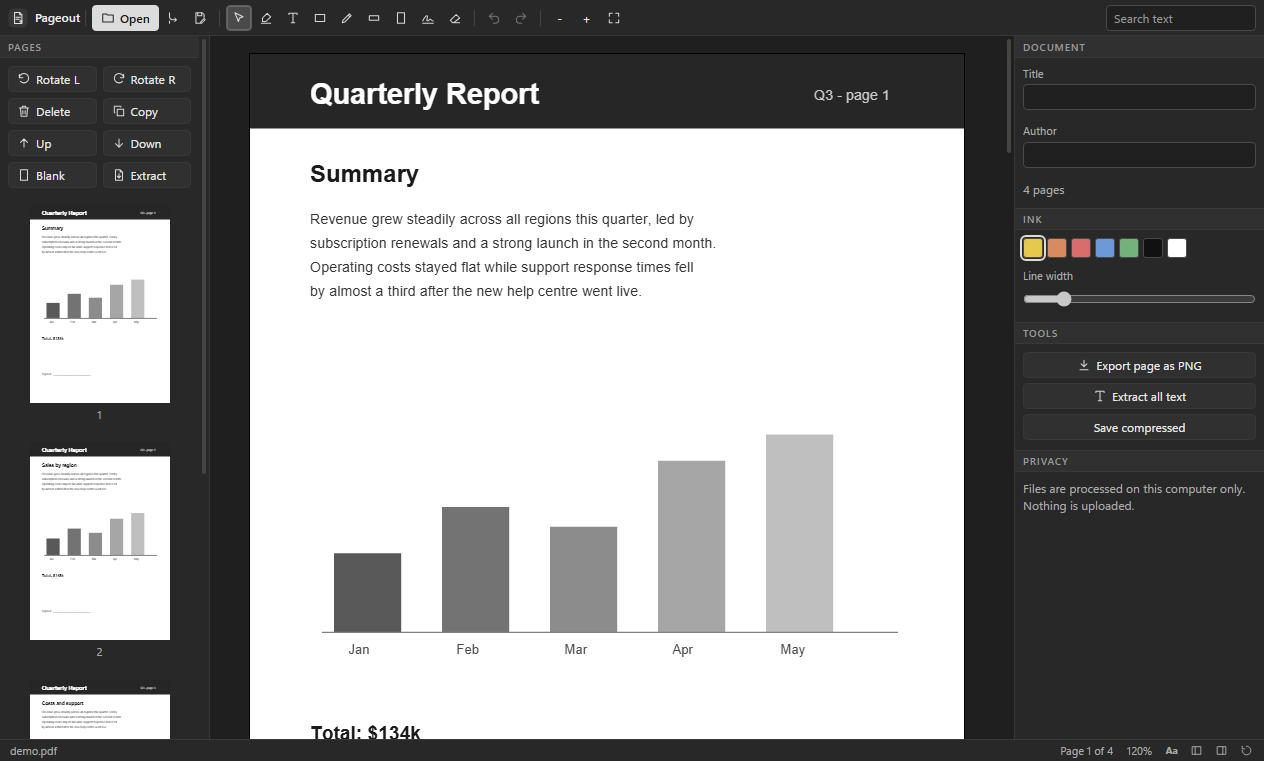
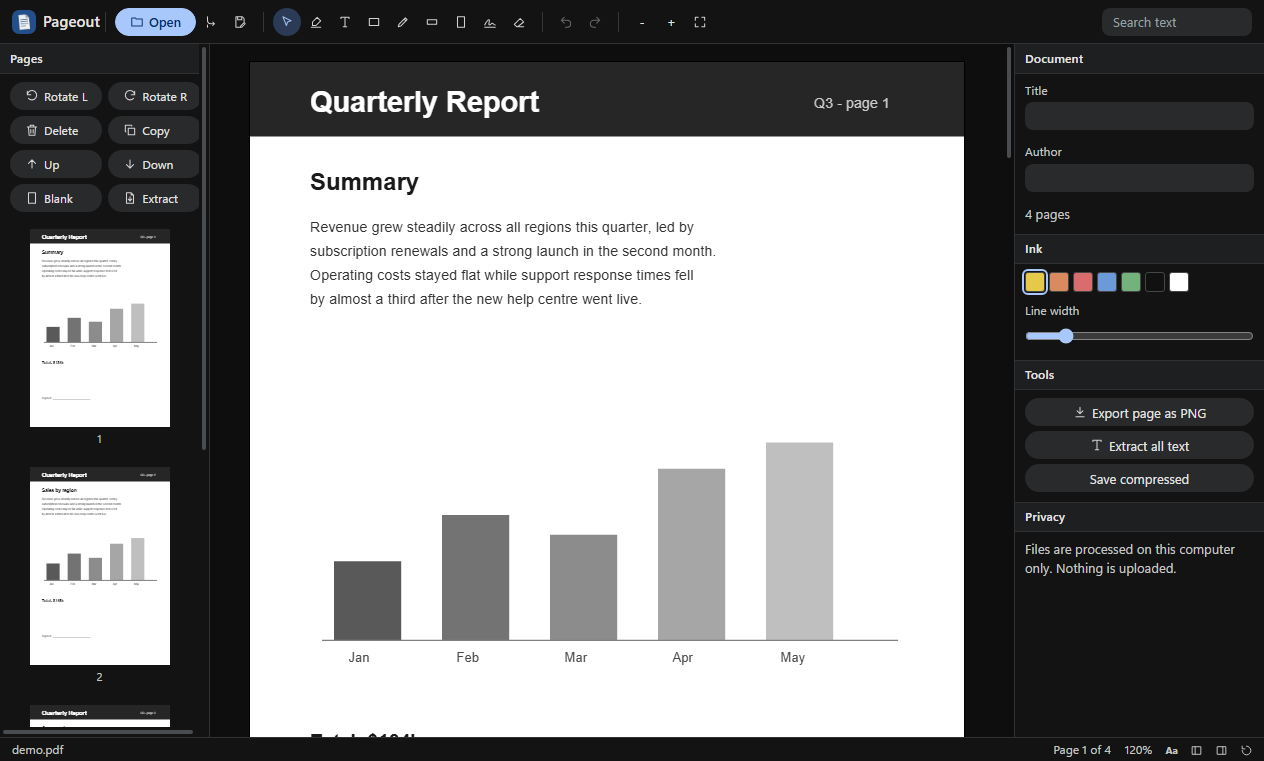
fix: Pageout 1.0.14
New Google-style look: charcoal theme, pill buttons, blue accent, colour app logo. Refreshed README and screenshots.

diff --git a/renderer/lookout.css b/renderer/lookout.css
@@ -1,68 +1,69 @@
-/* Lookout gray UI kit v3: compact pro workspace, flat, no hue. Shared by every Lookout app. */
+/* Lookout UI kit v4: Google-style dark (AI Studio / Colab / Gemini): soft surfaces, pill buttons, blue accent. Shared by every Lookout app. */
 :root{
-  --bg:#202020; --bg-2:#282828; --bg-3:#303030; --bg-4:#3a3a3a; --stage:#181818;
-  --line:#383838; --line-2:#4a4a4a; --line-3:#5c5c5c;
-  --text:#e8e8e8; --text-2:#ababab; --text-3:#9a9a9a;
-  --accent:#dcdcdc; --accent-ink:#1b1b1b; --focus:#a0a0a0;
-  --radius:4px; --h:26px; --pad:8px;
-  --font:"Segoe UI Variable Text","Segoe UI",system-ui,-apple-system,sans-serif; --mono:Consolas,"Cascadia Mono",monospace;
+  --bg:#131314; --bg-2:#1e1f20; --bg-3:#282a2c; --bg-4:#333537; --stage:#0e0e0f;
+  --line:#2f3133; --line-2:#444746; --line-3:#5f6368;
+  --text:#e3e3e3; --text-2:#c4c7c5; --text-3:#9aa0a6;
+  --accent:#a8c7fa; --accent-ink:#062e6f; --accent-2:#0b57d0; --accent-soft:#2b3a55; --focus:#a8c7fa;
+  --radius:8px; --h:28px; --pad:10px;
+  --font:"Google Sans Text","Google Sans",Roboto,"Segoe UI Variable Text","Segoe UI",system-ui,-apple-system,sans-serif; --mono:Consolas,"Cascadia Mono",monospace;
 }
 *{box-sizing:border-box;margin:0;padding:0}
-html,body{height:100%;background:var(--bg);color:var(--text);font:12px/1.4 var(--font);overflow:hidden;user-select:none;-webkit-font-smoothing:antialiased}
+html,body{height:100%;background:var(--bg);color:var(--text);font:13px/1.45 var(--font);overflow:hidden;user-select:none;-webkit-font-smoothing:antialiased}
 button,input,select,textarea{font:inherit;color:inherit}
 .app{display:grid;grid-template-rows:auto 1fr auto;height:100vh}
 
 /* ---------- toolbar ---------- */
-.toolbar{display:flex;align-items:center;gap:1px;padding:4px 8px;min-height:36px;background:var(--bg-2);border-bottom:1px solid var(--line);flex-wrap:nowrap;overflow-x:auto;overflow-y:hidden;scrollbar-width:none}
+.toolbar{display:flex;align-items:center;gap:1px;padding:6px 12px;min-height:44px;background:var(--bg);border-bottom:1px solid var(--line);flex-wrap:nowrap;overflow-x:auto;overflow-y:hidden;scrollbar-width:none}
 .toolbar::-webkit-scrollbar{height:0}
 .toolbar>*{flex-shrink:0}
-.toolbar .sep{width:1px;height:16px;align-self:center;background:var(--line-2);margin:0 5px;opacity:.8}
+.toolbar .sep{width:1px;height:20px;align-self:center;background:var(--line-2);margin:0 8px;opacity:.7}
 .toolbar .grow{flex:1 1 auto;min-width:8px}
 .toolbar input[type=text],.toolbar input[type=search]{width:150px}
-.brand{display:flex;align-items:center;gap:7px;padding-right:2px;margin-right:2px;font-weight:600;font-size:12px;color:var(--text)}
-.brand img{width:20px;height:20px;border-radius:5px;display:block}
+.brand{display:flex;align-items:center;gap:7px;padding-right:2px;margin-right:2px;font-weight:500;font-size:15px;letter-spacing:.1px;color:var(--text)}
+.brand img{width:24px;height:24px;border-radius:7px;display:block}
 .brand+.sep{margin-left:0}
 
 /* ---------- buttons ---------- */
-.btn{display:inline-flex;align-items:center;justify-content:center;gap:5px;height:var(--h);padding:0 8px;background:var(--bg-3);border:1px solid var(--line);border-radius:var(--radius);cursor:pointer;white-space:nowrap;line-height:1;transition:background .08s,border-color .08s}
-.btn:hover{background:var(--bg-4);border-color:var(--line-2)}
-.btn:active{background:#262626}
+.btn{display:inline-flex;align-items:center;justify-content:center;gap:5px;height:var(--h);padding:0 14px;background:var(--bg-3);border:1px solid transparent;border-radius:999px;cursor:pointer;white-space:nowrap;line-height:1;transition:background .08s,border-color .08s}
+.btn:hover{background:var(--bg-4)}
+.btn:active{background:#3c3f41}
 .btn:focus-visible,input:focus-visible,select:focus-visible,textarea:focus-visible,[tabindex]:focus-visible{outline:2px solid var(--focus);outline-offset:1px}
-.btn.primary{background:var(--accent);color:var(--accent-ink);border-color:var(--accent);font-weight:600}
-.btn.primary:hover{background:#ececec;border-color:#ececec}
-.btn.on{background:#4a4a4a;border-color:var(--line-3);box-shadow:inset 0 0 0 1px #6a6a6a}
+.btn.primary{background:var(--accent);color:var(--accent-ink);border-color:var(--accent);font-weight:500}
+.btn.primary:hover{background:#c2d7fb;border-color:#c2d7fb;box-shadow:0 1px 3px rgba(0,0,0,.4)}
+.btn.on{background:var(--accent-soft);color:var(--accent);border-color:transparent}
 .btn[disabled]{opacity:.45;pointer-events:none}
-.btn.icon{padding:0;width:var(--h);min-width:var(--h)}
+.btn.icon{padding:0;width:var(--h);min-width:var(--h);border-radius:50%}
 .btn .ic{width:14px;height:14px;flex-shrink:0;display:block;opacity:.92}
 .toolbar .btn:not(.primary):not(.on){background:transparent;border-color:transparent}
-.toolbar .btn:not(.primary):not(.on):hover{background:var(--bg-4);border-color:var(--line-2)}
+.toolbar .btn:not(.primary):not(.on):hover{background:var(--bg-3);border-color:transparent}
 
 /* icon-only toolbar: names live in the tooltip (Aa in the status bar brings the labels back) */
-.toolbar:not(.lbl) .btn:not(.primary):has(> svg.ic),.toolbar.c3 .btn:has(> svg.ic){font-size:0;gap:0;width:var(--h);padding:0}
+.toolbar:not(.lbl) .btn:not(.primary):has(> svg.ic),.toolbar.c3 .btn:has(> svg.ic){font-size:0;gap:0;width:var(--h);padding:0;border-radius:50%}
 .toolbar.c2 .brand span{display:none}
 .toolbar.c2 input[type=text],.toolbar.c2 input[type=search]{width:110px}
 .toolbar.lbl.c1 .btn.minor:not(.primary):has(> svg.ic),.toolbar.lbl.c2 .btn:not(.primary):has(> svg.ic){font-size:0;gap:0;width:var(--h);padding:0}
 
 /* ---------- fields ---------- */
-input[type=text],input[type=number],input[type=search],input[type=date],select,textarea{background:var(--bg);border:1px solid var(--line-2);border-radius:var(--radius);padding:0 7px;height:var(--h);user-select:text;min-width:0;font-size:12px}
+input[type=text],input[type=number],input[type=search],input[type=date],select,textarea{background:var(--bg-3);border:1px solid transparent;border-radius:var(--radius);padding:0 10px;height:var(--h);user-select:text;min-width:0;font-size:13px}
 input[type=number],.frow>input,.field>input{font-variant-numeric:tabular-nums}
 textarea{height:auto;padding:5px 7px;resize:vertical;line-height:1.4}
 select{padding-right:4px;cursor:pointer}
-input:hover,select:hover,textarea:hover{border-color:var(--line-3)}
-input[type=range]{accent-color:#c8c8c8;height:var(--h)}
-input[type=checkbox]{accent-color:#c8c8c8;width:14px;height:14px;cursor:pointer}
-input[type=color]{border:1px solid var(--line-2);background:var(--bg);width:26px;height:var(--h);padding:2px;border-radius:var(--radius)}
-label.field{display:flex;flex-direction:column;gap:3px;color:var(--text-2);font-size:11px}
-label.field>input,label.field>select,label.field>textarea{width:100%;color:var(--text);font-size:12px}
+input:hover,select:hover,textarea:hover{background:var(--bg-4)}
+input[type=text]:focus,input[type=number]:focus,input[type=search]:focus,input[type=date]:focus,select:focus,textarea:focus{outline:none;border-color:var(--accent);background:var(--bg-2)}
+input[type=range]{accent-color:#a8c7fa;height:var(--h)}
+input[type=checkbox]{accent-color:#a8c7fa;width:14px;height:14px;cursor:pointer}
+input[type=color]{border:1px solid var(--line-2);background:var(--bg-3);width:26px;height:var(--h);padding:2px;border-radius:var(--radius)}
+label.field{display:flex;flex-direction:column;gap:3px;color:var(--text-2);font-size:12px}
+label.field>input,label.field>select,label.field>textarea{width:100%;color:var(--text);font-size:13px}
 
 /* ---------- layout ---------- */
 .main{display:flex;min-height:0;min-width:0}
-.sidebar{width:210px;background:var(--bg-2);border-right:1px solid var(--line);overflow:auto;padding:var(--pad);flex-shrink:0;min-width:0}
+.sidebar{width:210px;background:var(--bg);border-right:1px solid var(--line);overflow:auto;padding:var(--pad);flex-shrink:0;min-width:0}
 .sidebar.right{border-right:0;border-left:1px solid var(--line);width:250px}
 .sidebar.collapsed{display:none!important}
-.sidebar h3,.panel-title{font-size:10px;text-transform:uppercase;letter-spacing:.09em;color:var(--text-3);font-weight:600}
+.sidebar h3,.panel-title{font-size:12px;letter-spacing:.2px;color:var(--text-2);font-weight:500}
 .sidebar h3{margin:12px 0 6px}
-.sidebar>h3{display:flex;align-items:center;gap:6px;height:22px;margin:10px calc(var(--pad) * -1) 8px;padding:0 var(--pad);background:var(--bg-3);border-top:1px solid var(--line);border-bottom:1px solid var(--line)}
+.sidebar>h3{display:flex;align-items:center;gap:6px;height:30px;margin:10px calc(var(--pad) * -1) 8px;padding:0 var(--pad);background:var(--bg-2);border-top:1px solid var(--line);border-bottom:1px solid var(--line);color:var(--text)}
 .sidebar>h3:first-child{margin-top:calc(var(--pad) * -1);border-top:0}
 .panel-title{margin:12px 0 6px}
 .sidebar input[type=text],.sidebar input[type=search],.sidebar select,.sidebar textarea{width:100%}
@@ -73,20 +74,20 @@ label.field>input,label.field>select,label.field>textarea{width:100%;color:var(-
 .sidebar .btn{width:auto}
 .sidebar>.btn{width:100%;margin-bottom:5px}
 .stage{flex:1;min-width:0;min-height:0;position:relative;background:var(--stage);overflow:auto}
-.status{display:flex;gap:14px;align-items:center;height:22px;padding:0 10px;background:var(--bg-2);border-top:1px solid var(--line);color:var(--text-2);font-size:11px;white-space:nowrap;overflow:hidden}
+.status{display:flex;gap:14px;align-items:center;height:24px;padding:0 12px;background:var(--bg);border-top:1px solid var(--line);color:var(--text-2);font-size:12px;white-space:nowrap;overflow:hidden}
 .status .grow{flex:1}
 body.hasdock .status{padding-right:112px}
-.wbs{position:fixed;right:6px;bottom:2px;height:18px;display:flex;gap:2px;z-index:8;background:var(--bg-2);padding-left:6px}
+.wbs{position:fixed;right:6px;bottom:2px;height:18px;display:flex;gap:2px;z-index:8;background:var(--bg);padding-left:6px}
 .wbs[hidden]{display:none}
-.wbs .wb{height:18px;min-width:22px;padding:0 4px;display:inline-flex;align-items:center;justify-content:center;font-size:10px;font-weight:700;line-height:1;background:transparent;border:1px solid transparent;border-radius:3px;color:var(--text-2);cursor:pointer}
+.wbs .wb{height:18px;min-width:22px;padding:0 4px;display:inline-flex;align-items:center;justify-content:center;font-size:10px;font-weight:700;line-height:1;background:transparent;border:1px solid transparent;border-radius:6px;color:var(--text-2);cursor:pointer}
 .wbs .wb[hidden]{display:none}
 .wbs .wb svg{width:13px;height:13px;display:block}
-.wbs .wb:hover{background:var(--bg-4);border-color:var(--line-2);color:var(--text)}
-.wbs .wb.on{background:var(--bg-4);border-color:var(--line-3);color:var(--text)}
+.wbs .wb:hover{background:var(--bg-3);color:var(--text)}
+.wbs .wb.on{background:var(--accent-soft);color:var(--accent)}
 .list{display:flex;flex-direction:column;gap:1px}
-.list .item{padding:3px 6px;border-radius:var(--radius);cursor:pointer;border:1px solid transparent;display:flex;gap:6px;align-items:center;min-height:26px}
+.list .item{padding:3px 10px;border-radius:999px;cursor:pointer;border:1px solid transparent;display:flex;gap:6px;align-items:center;min-height:26px}
 .list .item:hover{background:var(--bg-3)}
-.list .item.sel{background:var(--bg-4);border-color:var(--line-2)}
+.list .item.sel{background:var(--accent-soft);color:var(--accent);border-color:transparent}
 .row{display:flex;gap:5px;align-items:center}
 .grow{flex:1 1 auto;min-width:0}
 .brow{display:grid;grid-template-columns:1fr 1fr;gap:5px;margin-bottom:5px}
@@ -99,17 +100,17 @@ body.hasdock .status{padding-right:112px}
 .sidebar .swatches{margin-bottom:8px}
 .list .item .btn{height:22px!important;width:24px!important;padding:0!important;font-size:0!important;gap:0;background:transparent;border-color:transparent;opacity:.55}
 .list .item:hover .btn,.list .item.sel .btn{opacity:1}
-.list .item .btn:hover{background:var(--bg-4);border-color:var(--line-2)}
+.list .item .btn:hover{background:var(--bg-4)}
 .col{display:flex;flex-direction:column;gap:5px}
 .muted{color:var(--text-2)}
 .empty{position:absolute;inset:0;display:flex;flex-direction:column;align-items:center;justify-content:center;gap:10px;color:var(--text-3);text-align:center;padding:24px}
-.empty .big{font-size:16px;color:var(--text-2);font-weight:600}
+.empty .big{font-size:20px;color:var(--text);font-weight:400}
 
 /* panel grip: drag to resize, double-click to collapse or restore */
 .grip{position:relative;flex:0 0 5px;width:5px;margin:0 -3px 0 -2px;z-index:6;cursor:col-resize;touch-action:none}
 .grip::after{content:"";position:absolute;top:0;bottom:0;left:2px;width:1px;background:transparent;transition:background .1s}
-.grip:hover::after,.grip.drag::after{background:var(--line-3);width:2px;left:1px}
-.grip.collapsed{flex:0 0 8px;width:8px;margin:0;background:var(--bg-2);border-left:1px solid var(--line);border-right:1px solid var(--line)}
+.grip:hover::after,.grip.drag::after{background:var(--accent);width:2px;left:1px}
+.grip.collapsed{flex:0 0 8px;width:8px;margin:0;background:var(--bg);border-left:1px solid var(--line);border-right:1px solid var(--line)}
 .grip.collapsed::after{left:3px;top:calc(50% - 14px);bottom:auto;height:28px;width:2px;background:var(--line-3);border-radius:2px}
 .grip.collapsed:hover{background:var(--bg-3)}
 body.gripping{cursor:col-resize}
@@ -117,30 +118,30 @@ body.gripping *{cursor:col-resize!important;user-select:none!important}
 
 /* ---------- overlays ---------- */
 .modal-back{position:fixed;inset:0;background:rgba(0,0,0,.6);display:flex;align-items:center;justify-content:center;z-index:50}
-.modal{background:var(--bg-2);border:1px solid var(--line-2);border-radius:8px;min-width:340px;max-width:80vw;max-height:85vh;overflow:auto;padding:16px;display:flex;flex-direction:column;gap:12px;box-shadow:0 18px 50px rgba(0,0,0,.5)}
-.modal h2{font-size:14px;font-weight:600}
-.toast{position:fixed;left:50%;bottom:34px;transform:translateX(-50%);background:var(--bg-4);border:1px solid var(--line-3);padding:7px 14px;border-radius:6px;z-index:60;box-shadow:0 8px 24px rgba(0,0,0,.4)}
-.progress{height:5px;background:var(--bg);border:1px solid var(--line);border-radius:4px;overflow:hidden}
+.modal{background:var(--bg-2);border:0;border-radius:24px;min-width:360px;max-width:80vw;max-height:85vh;overflow:auto;padding:24px;display:flex;flex-direction:column;gap:14px;box-shadow:0 8px 32px rgba(0,0,0,.6)}
+.modal h2{font-size:20px;font-weight:400}
+.toast{position:fixed;left:50%;bottom:34px;transform:translateX(-50%);background:#e3e3e3;color:#1f1f1f;border:0;padding:10px 18px;border-radius:8px;z-index:60;box-shadow:0 8px 24px rgba(0,0,0,.4)}
+.progress{height:6px;background:var(--bg-3);border:0;border-radius:999px;overflow:hidden}
 .progress>i,.progress>div{display:block;height:100%;background:var(--accent);width:0}
 
 /* ---------- tables ---------- */
 table.grid{border-collapse:separate;border-spacing:0;width:100%}
 table.grid th,table.grid td{border-bottom:1px solid var(--line);padding:0 10px;height:30px;text-align:left;vertical-align:middle}
-table.grid th{background:var(--bg-2);color:var(--text-2);font-weight:600;font-size:11px;position:sticky;top:0;z-index:1;height:26px}
-table.grid tbody tr:hover td{background:#242424}
-table.grid tr.sel td{background:#323232}
+table.grid th{background:var(--bg-2);color:var(--text-2);font-weight:500;font-size:12px;position:sticky;top:0;z-index:1;height:26px}
+table.grid tbody tr:hover td{background:var(--bg-2)}
+table.grid tr.sel td{background:var(--accent-soft)}
 table.grid tbody tr{cursor:default}
 table.grid td .btn{height:22px;margin-left:6px;vertical-align:middle}
 table.grid td{white-space:nowrap}
 
 /* ---------- misc ---------- */
 ::-webkit-scrollbar{width:10px;height:10px}
-::-webkit-scrollbar-thumb{background:#454545;border:3px solid transparent;background-clip:padding-box;border-radius:8px}
-::-webkit-scrollbar-thumb:hover{background:#5a5a5a;background-clip:padding-box;border:3px solid transparent}
+::-webkit-scrollbar-thumb{background:#4a4d50;border:3px solid transparent;background-clip:padding-box;border-radius:8px}
+::-webkit-scrollbar-thumb:hover{background:#6b6f73;background-clip:padding-box;border:3px solid transparent}
 ::-webkit-scrollbar-track,::-webkit-scrollbar-corner{background:transparent}
 .swatches{display:flex;flex-wrap:wrap;gap:5px}
-.swatches button{width:20px;height:20px;border:1px solid var(--line-3);border-radius:4px;cursor:pointer;padding:0}
+.swatches button{width:22px;height:22px;border:1px solid var(--line-3);border-radius:50%;cursor:pointer;padding:0}
 .swatches button.on{outline:2px solid var(--accent);outline-offset:2px}
-kbd{font-family:var(--mono);font-size:10px;background:var(--bg-3);border:1px solid var(--line-2);border-bottom-width:2px;border-radius:3px;padding:0 4px}
+kbd{font-family:var(--mono);font-size:10px;background:var(--bg-3);border:1px solid var(--line-2);border-bottom-width:2px;border-radius:4px;padding:0 5px}
 
 input::placeholder,textarea::placeholder{color:var(--text-3);opacity:1}

diff --git a/renderer/app.css b/renderer/app.css
@@ -1,4 +1,4 @@
-.stage{display:flex;flex-direction:column;align-items:center;gap:14px;padding:18px;background:#1f1f1f}
+.stage{display:flex;flex-direction:column;align-items:center;gap:14px;padding:18px;background:var(--stage)}
 .page{position:relative;background:#fff;box-shadow:0 0 0 1px #000;flex-shrink:0}
 .page canvas{display:block}
 .page svg.ov{position:absolute;inset:0;width:100%;height:100%;overflow:visible}
@@ -12,7 +12,7 @@
 .stage.tool-erase{cursor:not-allowed}
 .thumb{display:flex;flex-direction:column;align-items:center;gap:4px;padding:6px;border:1px solid transparent;border-radius:4px;cursor:pointer;margin-bottom:6px}
 .thumb:hover{background:var(--bg-3)}
-.thumb.sel{background:#444;border-color:var(--line-2)}
+.thumb.sel{background:var(--accent-soft);border-color:var(--accent)}
 .thumb canvas{background:#fff;max-width:100%;display:block}
 .thumb span{font-size:11px;color:var(--text-2)}
 .ptools{display:grid;grid-template-columns:1fr 1fr;gap:6px;margin-bottom:10px}

diff --git a/README.md b/README.md
@@ -1,8 +1,10 @@
-<p align="center"><img src="screenshots/banner.png" alt="Pageout" width="100%"></p>
+<p align="center"><img src="screenshots/logo.png" alt="Pageout" width="128"></p>
 
-<p align="center"><b>Read, annotate and sign PDFs</b><br>Version 1.0.3 for Windows · Free · Offline · No account</p>
+<h1 align="center">Pageout</h1>
 
-<p align="center"><a href="https://github.com/plawanpawin-byte/pageout/releases/latest"><b>Download Pageout</b></a> · <a href="https://github.com/plawanpawin-byte/Lookout">All Lookout apps</a></p>
+<p align="center"><b>Read, annotate and sign PDFs</b><br>Version 1.0.14 for Windows · Free · Offline · No account</p>
+
+<p align="center"><a href="https://github.com/plawanpawin-byte/pageout/releases/latest"><b>Download Pageout</b></a> · <a href="https://github.com/plawanpawin-byte/lookout-launcher">Lookout launcher</a> · <a href="https://github.com/plawanpawin-byte/Lookout">All Lookout apps</a></p>
 
 ---
 
@@ -12,11 +14,51 @@ Pageout is a PDF reader and editor for Windows that works entirely on your compu
 
 ![Pageout](screenshots/01-reading-a-pdf.png)
 
-**On this page:** [Screenshots](#see-it-in-action) · [Interface](#the-interface) · [Features](#everything-it-can-do) · [How to use it](#how-to-use-it) · [Shortcuts](#keyboard-shortcuts) · [Formats](#files-and-formats) · [Privacy](#private-by-design) · [Install](#install) · [Questions](#questions)
+**On this page:** [In plain words](#in-plain-words) · [Who it is for](#who-it-is-for) · [Try it in 3 steps](#try-it-in-3-steps) · [Screenshots](#see-it-in-action) · [Features](#everything-it-can-do) · [How to use it](#how-to-use-it) · [Privacy](#private-by-design) · [Install](#install) · [Questions](#questions)
 
-## What is new in 1.0.3
+## In plain words
 
-A refreshed interface: every toolbar button now has a clear line icon, the app's mark sits at the top left, controls share one height and spacing, panels line up in tidy grids, and the toolbar keeps every button reachable on smaller windows by switching less important buttons to icons.
+Pageout is a program for working with **PDF files** (the kind of document you get from a bank, a school, a government office or a contract). It does what you would do with a pen and a printer, but on screen: you read the document, highlight sentences, write notes in the margin, draw or sign with the mouse, and then save the result as a **new PDF** that you can email.
+
+It can also tidy a document. You can rotate a sideways page, delete a page you do not need, move pages up or down, add a blank page, or pull a few pages out into their own file. It can **black out** private details such as an ID number so that the text is really removed from the file, not just covered.
+
+**Not for:** Pageout does not edit the original wording of a PDF (it is not a word processor), and it does not read scanned pages out loud or turn pictures of text into text.
+
+## Who it is for
+
+- **Students and teachers** who highlight and take notes on papers and worksheets.
+- **Anyone who signs documents**: draw your signature once, place it on a form, save the signed copy.
+- **Office workers** who need to remove a page, rotate a scan or hide a phone number before sending a PDF to someone.
+
+## Try it in 3 steps
+
+1. Click **Open**, choose any PDF, and scroll through it. Use the page list on the left to jump around.
+2. Pick the highlighter in the top bar, drag over a sentence, then press **Save** to keep a copy with the highlight in it.
+3. Choose **Export page as PNG** in the right panel to turn the current page into a picture.
+
+## What is new in 1.0.14
+
+A new look inspired by Google's own tools (AI Studio, Colab, Gemini): a calm dark charcoal theme, rounded pill buttons, a soft blue accent and roomier spacing. The app icon is now a colour logo so you can find Pageout at a glance in the Start menu and in the Lookout launcher. All screenshots below were taken again with the new look.
+
+## In plain words
+
+Pageout is a program for working with **PDF files** (the kind of document you get from a bank, a school, a government office or a contract). It does what you would do with a pen and a printer, but on screen: you read the document, highlight sentences, write notes in the margin, draw or sign with the mouse, and then save the result as a **new PDF** that you can email.
+
+It can also tidy a document. You can rotate a sideways page, delete a page you do not need, move pages up or down, add a blank page, or pull a few pages out into their own file. It can **black out** private details such as an ID number so that the text is really removed from the file, not just covered.
+
+**Not for:** Pageout does not edit the original wording of a PDF (it is not a word processor), and it does not read scanned pages out loud or turn pictures of text into text.
+
+## Who it is for
+
+- **Students and teachers** who highlight and take notes on papers and worksheets.
+- **Anyone who signs documents**: draw your signature once, place it on a form, save the signed copy.
+- **Office workers** who need to remove a page, rotate a scan or hide a phone number before sending a PDF to someone.
+
+## Try it in 3 steps
+
+1. Click **Open**, choose any PDF, and scroll through it. Use the page list on the left to jump around.
+2. Pick the highlighter in the top bar, drag over a sentence, then press **Save** to keep a copy with the highlight in it.
+3. Choose **Export page as PNG** in the right panel to turn the current page into a picture.
 
 ## See it in action
 
@@ -129,7 +171,7 @@ Opens PDF files. Saves PDF. Exports a page as PNG and the document text as plain
 
 ## Install
 
-1. Open the [latest release](https://github.com/plawanpawin-byte/pageout/releases/latest) and download the file named **Pageout-Setup-** followed by the version number and **.exe**. You can also install it from the [Lookout launcher](https://github.com/${OWNER}/lookout-launcher), which keeps it up to date.
+1. Open the [latest release](https://github.com/plawanpawin-byte/pageout/releases/latest) and download the file named **Pageout-Setup-** followed by the version number and **.exe**. You can also install it from the [Lookout launcher](https://github.com/plawanpawin-byte/lookout-launcher), which keeps it up to date.
 2. Run the installer. It installs just for you, so it does not ask for administrator rights.
 3. Windows may show a blue **Windows protected your PC** screen because these installers are not signed with a paid certificate. Click **More info**, then **Run anyway**.
 4. Open Pageout from the Start menu.
@@ -147,18 +189,40 @@ No. You save to a new file; the original is never overwritten unless you choose 
 **Can it open password-protected PDFs?**  
 Not at the moment. Remove the password first with the tool that created the file.
 
+**Does Pageout change my original PDF?**  
+No. When you save, Pageout writes a new file. Your original stays as it was unless you choose to overwrite it yourself.
+
+**Is my signature stored somewhere?**  
+Only inside the files you sign and on your own computer. Nothing is sent anywhere.
+
+**What does "redact for real" mean?**  
+Many programs only draw a black box over text, and the text can still be copied from underneath. Pageout removes the text and image underneath, so it cannot be recovered.
+
+**Does Pageout change my original PDF?**  
+No. When you save, Pageout writes a new file. Your original stays as it was unless you choose to overwrite it yourself.
+
+**Is my signature stored somewhere?**  
+Only inside the files you sign and on your own computer. Nothing is sent anywhere.
+
+**What does "redact for real" mean?**  
+Many programs only draw a black box over text, and the text can still be copied from underneath. Pageout removes the text and image underneath, so it cannot be recovered.
+
 ## About Lookout
 
-Pageout belongs to the **[Lookout](https://github.com/plawanpawin-byte/Lookout)** family: ten small, private Windows apps for documents and media, all with the same calm grey look and the same promise that your files stay yours. Install and update them together with the [Lookout launcher](https://github.com/plawanpawin-byte/lookout-launcher).
+Pageout is part of **[Lookout](https://github.com/plawanpawin-byte/Lookout)**: ten small, private Windows apps for documents and media that share one look and one promise, that your files stay on your computer. Install and update them together with the [Lookout launcher](https://github.com/plawanpawin-byte/lookout-launcher).
 
-- **[Chartout](https://github.com/plawanpawin-byte/chartout)**: flowcharts and diagrams
-- **[Branchout](https://github.com/plawanpawin-byte/branchout)**: mind maps and outlines
-- **[Planout](https://github.com/plawanpawin-byte/planout)**: plans and gantt timelines
-- **[Frameout](https://github.com/plawanpawin-byte/frameout)**: screen design and prototypes
-- **[Cutout](https://github.com/plawanpawin-byte/cutout)**: video editing on a timeline
-- **[Shiftout](https://github.com/plawanpawin-byte/shiftout)**: convert and compress media
-- **[Castout](https://github.com/plawanpawin-byte/castout)**: record your screen
-- **[Mendout](https://github.com/plawanpawin-byte/mendout)**: repair damaged media
-- **[Tuneout](https://github.com/plawanpawin-byte/tuneout)**: record and edit audio
+| | App | What it is for | Code |
+| --- | --- | --- | --- |
+| <img src="https://raw.githubusercontent.com/plawanpawin-byte/lookout-launcher/main/build/icon.png" width="32" alt="Lookout"> | **Lookout** | Install, open and update all the apps below | [GitHub](https://github.com/plawanpawin-byte/lookout-launcher) |
+| <img src="https://raw.githubusercontent.com/plawanpawin-byte/pageout/main/build/icon.png" width="32" alt="Pageout"> | **Pageout** | Read, annotate and sign PDFs | [GitHub](https://github.com/plawanpawin-byte/pageout) |
+| <img src="https://raw.githubusercontent.com/plawanpawin-byte/chartout/main/build/icon.png" width="32" alt="Chartout"> | **Chartout** | Flowcharts, org charts and diagrams | [GitHub](https://github.com/plawanpawin-byte/chartout) |
+| <img src="https://raw.githubusercontent.com/plawanpawin-byte/branchout/main/build/icon.png" width="32" alt="Branchout"> | **Branchout** | Mind maps and outlines | [GitHub](https://github.com/plawanpawin-byte/branchout) |
+| <img src="https://raw.githubusercontent.com/plawanpawin-byte/planout/main/build/icon.png" width="32" alt="Planout"> | **Planout** | Project plans and Gantt timelines | [GitHub](https://github.com/plawanpawin-byte/planout) |
+| <img src="https://raw.githubusercontent.com/plawanpawin-byte/frameout/main/build/icon.png" width="32" alt="Frameout"> | **Frameout** | App and web screen design with click-through prototypes | [GitHub](https://github.com/plawanpawin-byte/frameout) |
+| <img src="https://raw.githubusercontent.com/plawanpawin-byte/cutout/main/build/icon.png" width="32" alt="Cutout"> | **Cutout** | Video editing on a timeline | [GitHub](https://github.com/plawanpawin-byte/cutout) |
+| <img src="https://raw.githubusercontent.com/plawanpawin-byte/shiftout/main/build/icon.png" width="32" alt="Shiftout"> | **Shiftout** | Convert and compress video and audio, make GIFs | [GitHub](https://github.com/plawanpawin-byte/shiftout) |
+| <img src="https://raw.githubusercontent.com/plawanpawin-byte/castout/main/build/icon.png" width="32" alt="Castout"> | **Castout** | Record your screen | [GitHub](https://github.com/plawanpawin-byte/castout) |
+| <img src="https://raw.githubusercontent.com/plawanpawin-byte/mendout/main/build/icon.png" width="32" alt="Mendout"> | **Mendout** | Check and repair damaged video, audio, pictures and PDFs | [GitHub](https://github.com/plawanpawin-byte/mendout) |
+| <img src="https://raw.githubusercontent.com/plawanpawin-byte/tuneout/main/build/icon.png" width="32" alt="Tuneout"> | **Tuneout** | Record and edit audio | [GitHub](https://github.com/plawanpawin-byte/tuneout) |
 
 Released under the MIT License.
